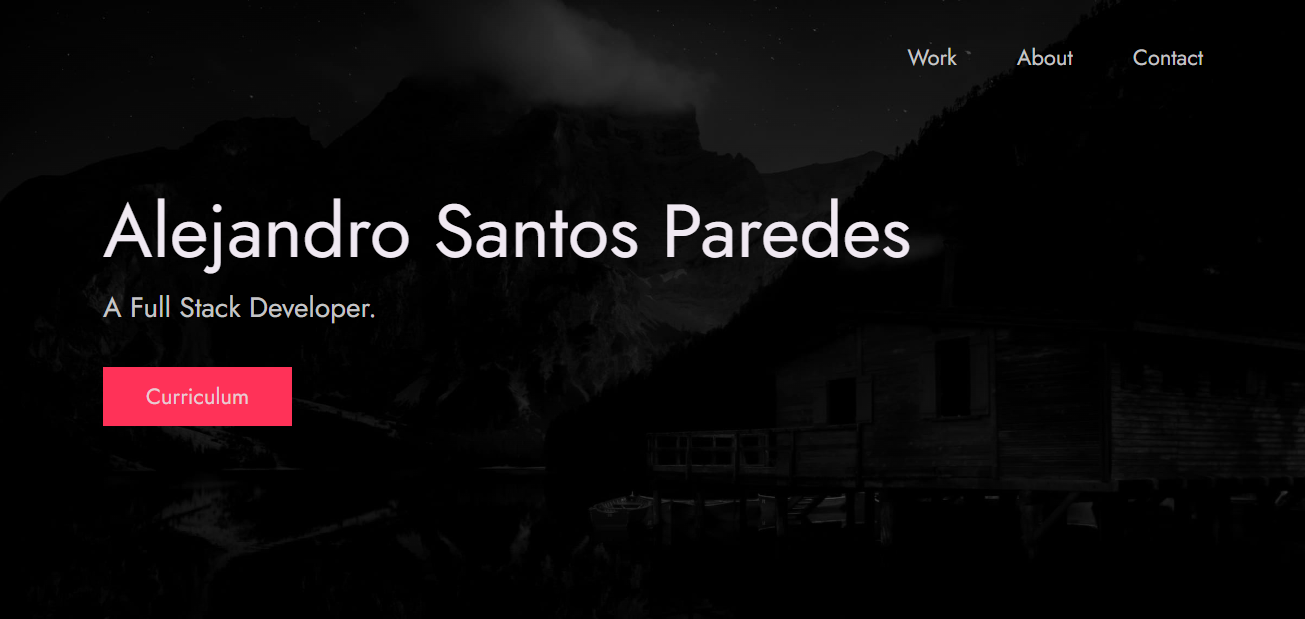
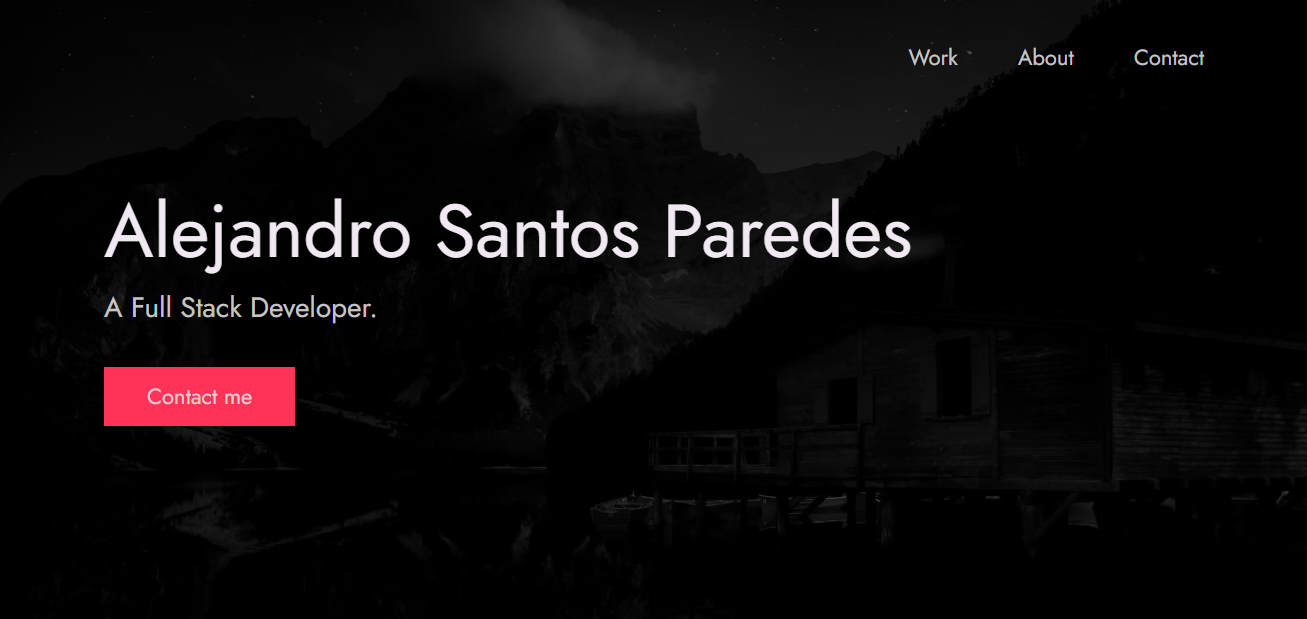
Cambios de imagen

diff --git a/index.html b/index.html
@@ -59,7 +59,7 @@
         </h1>
         <!-- Put a small paragraph about yourself -->
         <p>A Full Stack Developer.</p>
-        <a href="#contact" class="btn btn--pink">Curriculum</a>
+        <a href="#contact" class="btn btn--pink">Contact me</a>
       </div>
     </div>
   </header>
@@ -79,7 +79,7 @@
             <div class="work__text">
               <h3>Portfolio</h3>
               <p>
-                My personal portfolio.
+                Mi portafolio personal
               </p>
               <ul class="work__list">
                 <li>HTML</li>
@@ -105,7 +105,7 @@
             <div class="work__text">
               <h3>Piedra, Papel o Tijeras</h3>
               <p>
-                a simple and fun game of rock, paper and scissors
+                Un simple pero divertido juego de piedra papel y tijeras.
               </p>
               <ul class="work__list">
                 <li>HTML</li>
@@ -131,7 +131,7 @@
             <div class="work__text">
               <h3>Clock</h3>
               <p>
-                A clock that tells the local time and day of the week
+                Un reloj que marca la hora local y el dia de la semana.
               </p>
               <ul class="work__list">
                 <li>HTML</li>
@@ -171,7 +171,7 @@
               ratione molestiae fuga veniam facere similique voluptate.
             </p>
             <!-- Provide a link to your resume -->
-            <a href="/images/Curriculum.pdf" class="btn" download>My Curriculum</a>
+            <a href="https://drive.google.com/file/d/1gL2HoCmu2vFZ0QuZGrn-1RgqQ5yvQzyw/view?usp=drive_link" class="btn">My Curriculum</a>
           </div>
 
           <div class="about__photo-container">
@@ -189,13 +189,12 @@
     <div class="row">
       <h2>Get in Touch</h2>
       <div class="contact__info">
-        <p>
-          Are you looking for a fast-performing and user-friendly website to
-          represent your product or business? or looking for any kind of
-          consultation? or want to ask questions? or have some advice for me
-          or just want to say "Hi 👋" in any case feel free to Let me know. I
-          will do my best to respond back. 😊 The quickest way to reach out to
-          me is via an email.
+        <p>¿Está buscando un sitio web fácil de usar y de rápido rendimiento para
+          ¿Representar tu producto o negocio? o buscando cualquier tipo de
+          ¿consulta? o quieres hacer preguntas? o tienes algún consejo para mí
+          o simplemente quieres decir "Hola 👋" en cualquier caso no dudes en hacérmelo saber. Y
+          Haré todo lo posible para responder. 😊 La forma más rápida de comunicarse conmigo
+          es a través de un correo electrónico.
         </p>
         <!-- Replace the email with yours -->
         <a href="mailto:alejandrosp256@gmail.com" class="btn">Correo</a>
